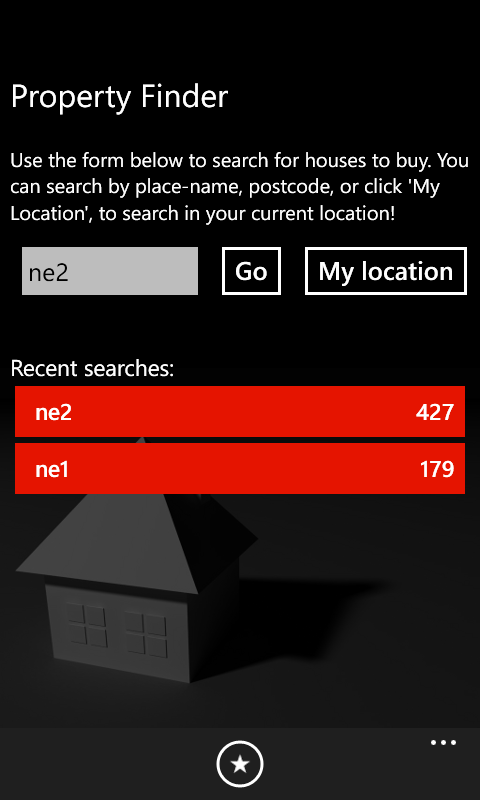
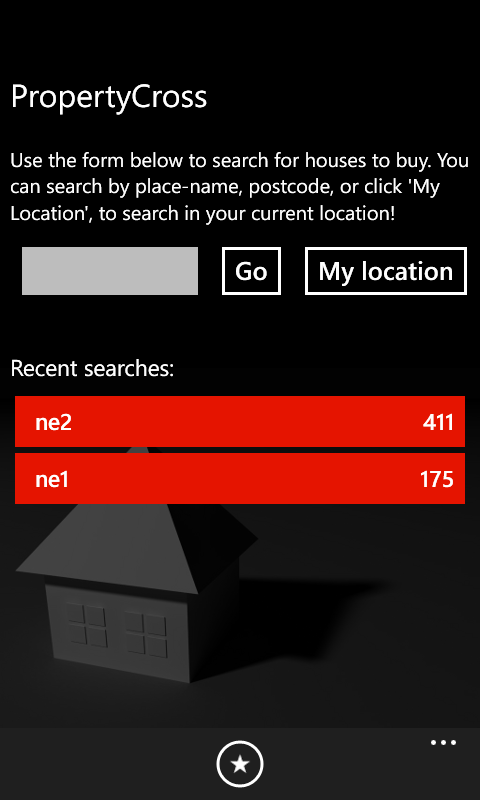
Updated title of windowsphone version

Changed region(s): [[0.0312, 0.4688, 0.9688, 0.6562], [0.2812, 0.0938, 0.4688, 0.1562], [0.0625, 0.3125, 0.1562, 0.375]]

diff --git a/native/windowsphone/PropertyFinder/SearchResultsView.xaml b/native/windowsphone/PropertyFinder/SearchResultsView.xaml
@@ -35,14 +35,13 @@
             <RowDefinition Height="Auto"/>
           </Grid.RowDefinitions>
 
-          <TextBlock TextWrapping="Wrap">
-            <Run Foreground="#AAA">Showing results for </Run>
-            <Run Text="{Binding SearchText}"></Run>
-            <Run Foreground="#AAA">, showing </Run>
+          <TextBlock TextWrapping="Wrap"
+                     FontSize="{StaticResource PhoneFontSizeMedium}">
+            <Run Foreground="#AAA">Showing </Run>
             <Run Text="{Binding Properties.Count}"></Run>
             <Run Foreground="#AAA"> of </Run>
             <Run Text="{Binding TotalResults}"></Run>
-            <Run Foreground="#AAA"> matching properties</Run>
+            <Run Foreground="#AAA"> matches</Run>
           </TextBlock>
 
           <ItemsControl ItemsSource="{Binding Properties}"

diff --git a/native/windowsphone/PropertyFinder/PropertyFinderView.xaml b/native/windowsphone/PropertyFinder/PropertyFinderView.xaml
@@ -63,7 +63,7 @@
         <RowDefinition Height="*"/>
       </Grid.RowDefinitions>
 
-      <TextBlock Text="Property Finder"
+      <TextBlock Text="PropertyCross"
                  FontSize="{StaticResource PhoneFontSizeLarge}"
                  Margin="0,30,0,0"/>
 

diff --git a/README.md b/README.md
@@ -1,99 +1,5 @@
-Cross Platform Property Finder
-==============================
+#PropertyCross
 
-*... Helping you select a cross-platform mobile framework*
+At some point this README file will probably contain a summary of the website content. 
 
-Introduction
------------
-
-Developers are increasingly finding themselves having to author applications for a diverse range of mobile devices
-(iOS, Android, Windows Phone, BlackBerry, ...), each of which have their own 'native' development languages,
-tools and environment. Cross platform technologies provide the potential to share skills and code,
-making this an easier (and less costly) process.
-
-Whilst HTML5 is the 'poster child' of cross platform mobile development, there are actually a large number of
-alternative technologies out there, each with their own strengths and weaknesses. Some allow you to create
-applications with a great user experience, but the development environment is a mess, while others offer little
-scope for code re-use between devices.
-
-To help solve this problem Cross-Platform-Property-Finder presents a non-trivial application, for searching
-UK property listings, developed using a range of cross-platform technologies and frameworks. Our aim is to provide
-developers with a practical insight into the strengths and weaknesses of each framework.
-
-The Apps
---------
-<table>
-  <tr>
-    <th>Framework</th>
-    <th>iOS</th>
-    <th>Android</th>
-    <th>Windows Phone</th>
-  </tr>
-  <tr>
-    <th>Native</th>
-    <td>✔</td>
-    <td>x</td>
-    <td>✔</td>
-  </tr>
-  <tr>
-    <th>jQueryMobile</th>
-    <td>✔</td>
-    <td>x</td>
-    <td>✔</td>
-  </tr>
-  <tr>
-    <th>Xamarin / MonoTouch</th>
-    <td>✔</td>
-    <td>x</td>
-    <td>✔</td>
-  </tr>
-  <tr>
-    <th>Titanium</th>
-    <td>✔</td>
-    <td>✔</td>
-    <td>n/a</td>
-  </tr>
-</table>
-
-✔ = implemented, x = not yet implemented, n/a = not supported by the framework
-
-Platforms To Add:
-
-  * RhoMobile
-  * AppMobi
-  * MoSync
-  * Sencha Touch (with PhoneGap)
-  * Kendo UI Mobile (with PhoneGap)
-  * DXTREME
-  * Adobe Mobile AIR
-  * Moscrif
-  * [Trigger.io](https://trigger.io/)
-
-The Application
----------------
-
-The app, which is implemented by each framework for each mobile platform, is a tool for searching
-UK property listings. This application was selected because it is non-trivial, multi-screen and
-makes use of a number of device capabilities including page navigation, geolocation, storage and
-web services.
-
-The aim, when implementign this application with each framework, is to provide an application which:
-
- * Shares as much code as possible.
- * Is well structured and uses a UI design pattern, e.g. MVVM, MVC, MVP ...
- * Provides a user experience that is in keeping with each platform.
-
-To expand on the last point, each mobile platform has its own identity - Android (Roboto),
-Windows Phone (Metro), iOS (Apple / skeuomorphic). In order for an application to be well received by
-its users, it is important that it 'fits' with other applications that alreayd exist on that platform.
-For this reason, we feel that it is important thta a cross-platform framework can deliver a different, 
-and appropriate experience on each platform.
-
-Credits
--------
-
- * Native - Colin Eberhardt
- * PhoneGap / HTML5 - Colin Eberhardt / Chris Price
- * Xamarin - Colin Eberhardt
- * Titanium - Chris Price
-
+For now, refer to this file for info: https://github.com/ColinEberhardt/PropertyFinderCrossPlatform/blob/master/website/README.md
